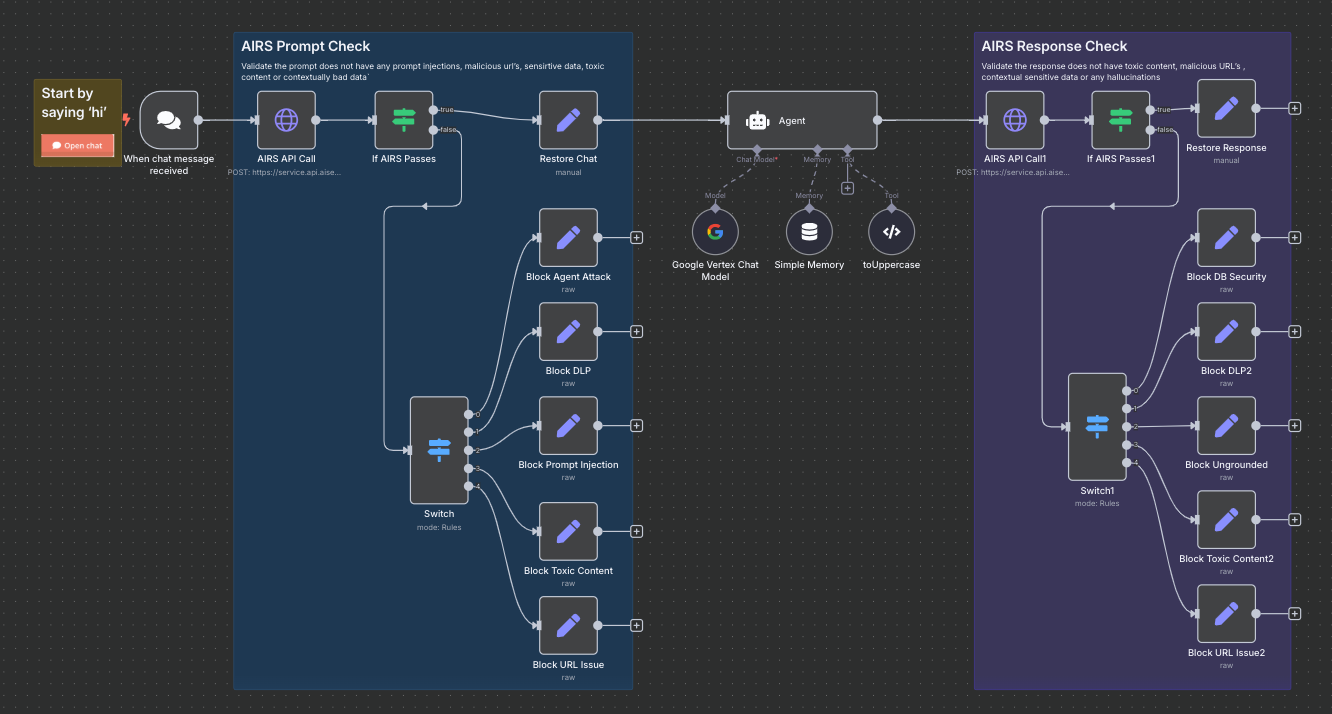
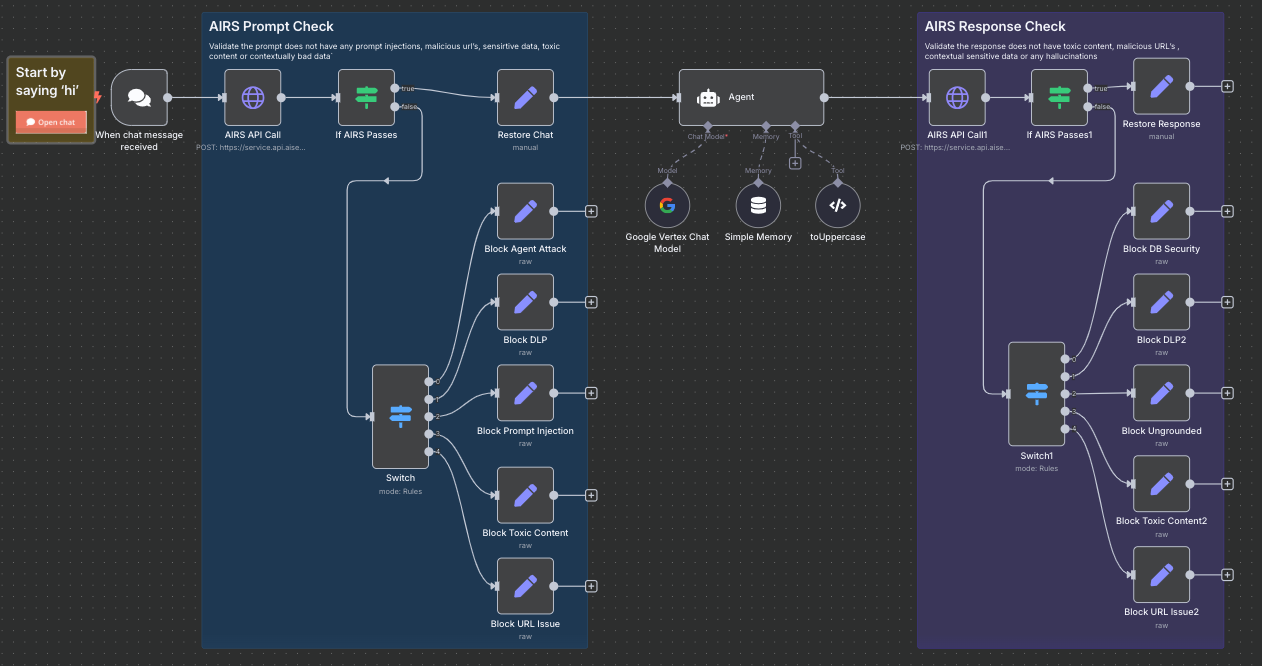
Keeping to single node offer

Changed region(s): [[0.0, 0.0, 0.9889, 0.991], [0.2781, 0.2703, 0.3399, 0.3003], [0.958, 0.7207, 0.9889, 0.7508]]

diff --git a/README.md b/README.md
@@ -5,8 +5,46 @@
 
 ## Overview
 
-This n8n workflow implements a conversational AI agent with a focus on security and guided tool setup. It uses a Langchain Agent powered by an Ollama LLM (Llama3.2). Before the agent processes user input and before the agent's response is sent back, the content is scanned by the Palo Alto Networks AIRS (AI-Powered Runtime Security) API to detect and block malicious content, prompt injections, sensitive data, etc.
+This n8n workflow implements a conversational AI agent with a focus on security and guided tool setup. It uses a Langchain Agent powered by an Google Vertex AI (but you can change that out). 
 
+Before the agent processes user input and before the agent's response is sent back, the content is scanned by the Palo Alto Networks AIRS (AI-Powered Runtime Security) API to detect and block malicious content, prompt injections, sensitive data, etc.
+
+### Prisma AIRS
+
+We start with a basic AI Agent whose primary initial goal is to be able to convert contents to uppercase:
+1.  It has "Simple Memory" to the agent to remember the conversation
+2.  A `toUppercase` tool
+
+This is what it looks like :
+
+![Basic Agent](images/Basic%20Agent.png)
+
+To add security we add the AI Agent with Prisma AIRS. Protecting both the input and the output of the agent (createing a sandwitch effect).
+
+
+This is what it looks like with Security surrounding the Agent:
+
+![n8n layout of Prisma AIRS standalone example](images/Prisma%20AIRS.png)
+
+## Key Features
+
+* **Conversational Interface:** Triggers on an incoming chat message.
+* **Security First (AIRS Integration):**
+    * **Prompt Scanning:** User input is first sent to the a Node that calls the Palo Alto AIRS API. If deemed malicious or problematic, the workflow stops and informs the user in readable format.
+    * **Response Scanning:** The agent's generated response is sent to the same node . If the response is flagged, a block message is sent instead of the agent's original response.
+* **Langchain Agent:** Utilizes `@n8n/n8n-nodes-langchain.agent` for conversational logic.
+* **LLM Backend:** Uses an Google Vertex AL Chat Model (`gemini-2.0-flash-lite-001`) for generating responses - This can be changed out to Ollama if you want to run it fully local.
+* **Memory:** Employs `@n8n/n8n-nodes-langchain.memoryBufferWindow` for short-term conversation memory.
+* **toUppercase:** Converts the input to Uppercase
+
+
+## Key Setup requirements
+* AIRS API token for the Header Authentication
+* change the profile in the AIRS request and response field edits from example-profile to your specific profile
+
+# Advanced Example
+
+For more Advanced Users, the workflow is split from the Example. It also allows combination of events (e.g. DLP + URL Filtering + Prompt Injection)
 ### Prisma AIRS Node 
 * This is the reusable node. It returns presentable responses (you could call the API yourself and handle it seperately - this is done in Prisma AIRS Node)
 ![n8n layout of Prisma AIRS Node](images/Prisma%20AIRS%20Node.png)
@@ -15,33 +53,6 @@ This n8n workflow implements a conversational AI agent with a focus on security 
 * This node calls Prisma AIRS Node. 
 ![n8n layout of Prisma AIRS Example](images/Prisma%20AIRS%20Example.png)
 
-The agent's primary initial goal is to be able to convert contents to uppercase:
-1.  It has "Simple Memory" to the agent to remember the conversation
-2.  A toUppercase tool
-
-#### Key Features
-
-* **Conversational Interface:** Triggers on an incoming chat message.
-* **Security First (AIRS Integration):**
-    * **Prompt Scanning:** User input is first sent to the a Node that calls the Palo Alto AIRS API. If deemed malicious or problematic, the workflow stops and informs the user in readable format.
-    * **Response Scanning:** The agent's generated response is sent to the same node . If the response is flagged, a block message is sent instead of the agent's original response.
-* **Langchain Agent:** Utilizes `@n8n/n8n-nodes-langchain.agent` for conversational logic.
-* **LLM Backend:** Uses an Ollama Chat Model (`llama3.2:latest`) for generating responses.
-    * *Note: An AWS Bedrock Chat Model node is present but not connected in the main flow.*
-* **Memory:** Employs `@n8n/n8n-nodes-langchain.memoryBufferWindow` for short-term conversation memory.
-* **toUppercase:**
-    * Converts the input to Uppercase
-* **Step-by-Step User Guidance:** The agent's system prompt is designed to walk the user through the necessary configuration steps for its memory and tools.
-* **Contextual Constraint
-
-
-### Prisma AIRS 
-* This is what it would look like if you called the API yourself
-![n8n layout of Prisma AIRS standalone example](images/Prisma%20AIRS.png)
-
-## Key Setup requirements
-* AIRS API token for the Header Authentication
-* change the profile in the AIRS request and response field edits from example-profile to your specific profile
-
 ## Design considerations
 * The Prisma_AIRS_Node must also be included as it is called by PRISM_AIRS_Example (In Prisma_AIRS node it is a standalone node)
+
